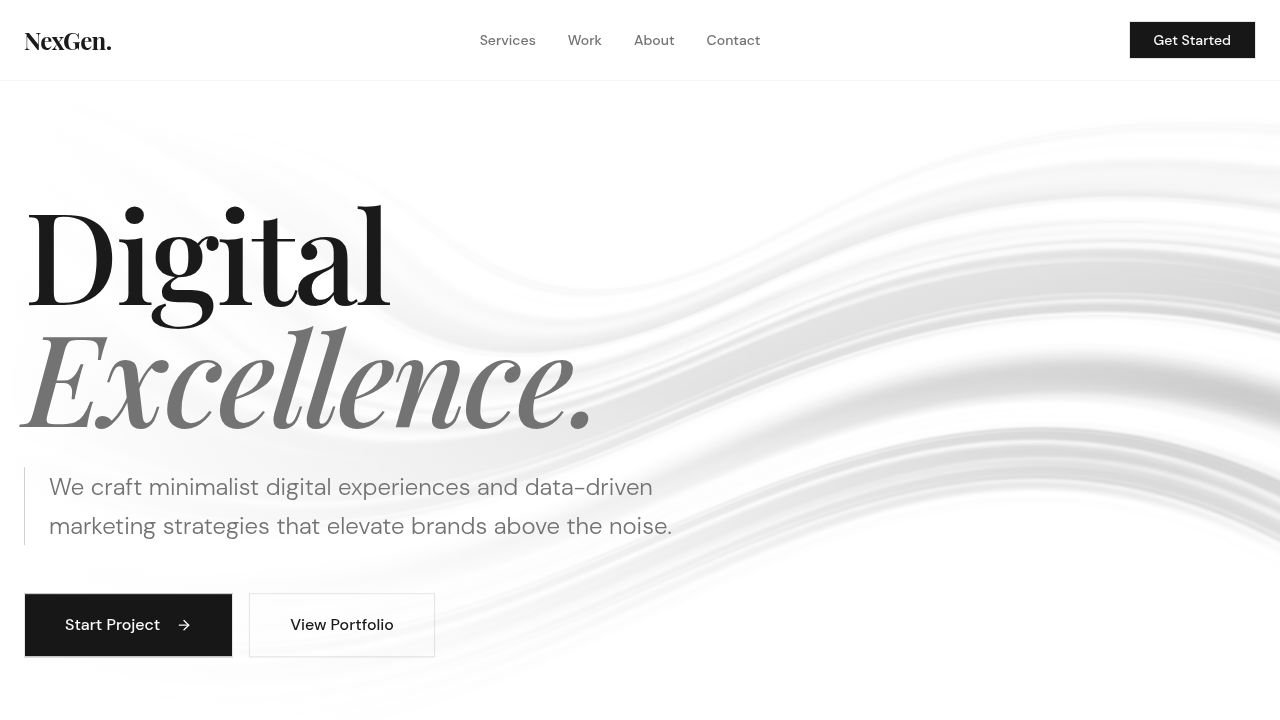
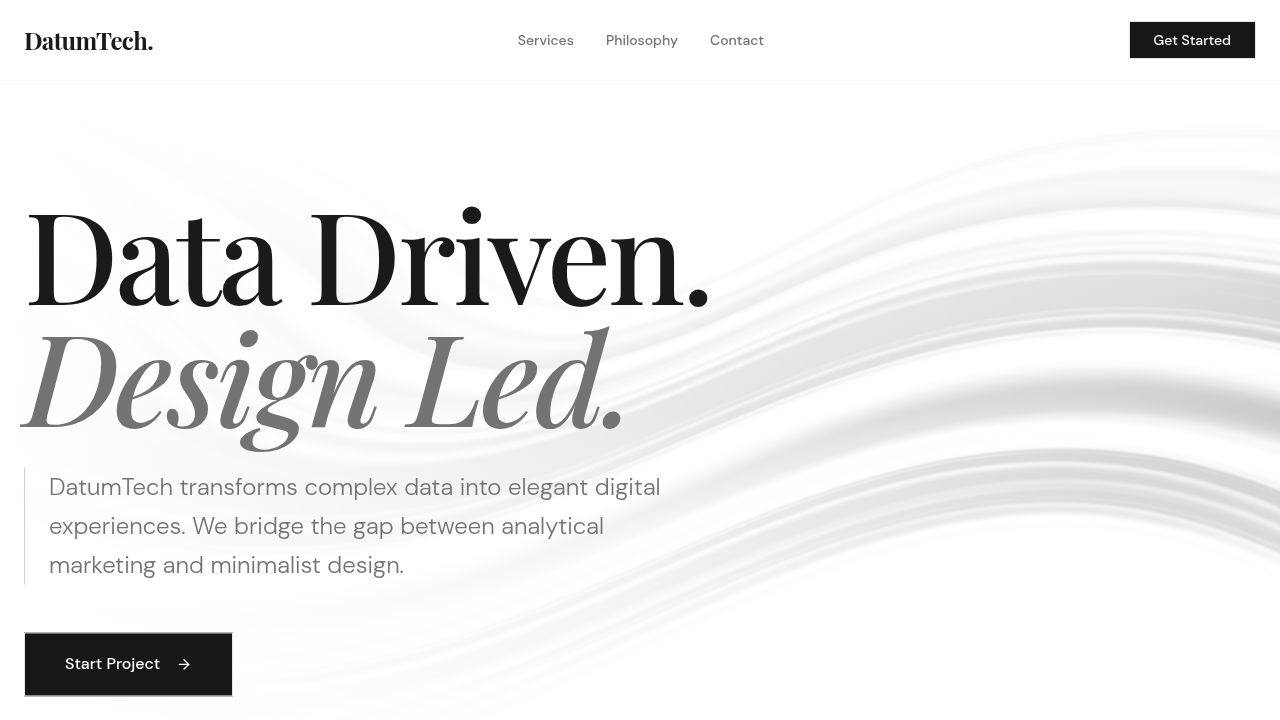
Update website branding and reorganize content for better clarity
Update the site's title, company name to DatumTech, and adjust navigation links. Remove the 'View Portfolio' button and refine the hero section's text and layout.

Replit-Commit-Author: Agent
Replit-Commit-Session-Id: 47a8e106-f118-4bb9-bd44-e1fb03fa4657
Replit-Commit-Checkpoint-Type: full_checkpoint
Replit-Commit-Event-Id: 930be7c3-c717-4c05-a084-e1411d183a05
Replit-Commit-Screenshot-Url: https://storage.googleapis.com/screenshot-production-us-central1/a9d355a1-3046-4cba-b1a1-2083b4b99bc4/47a8e106-f118-4bb9-bd44-e1fb03fa4657/5yPKr4i
Replit-Helium-Checkpoint-Created: true

diff --git a/client/src/pages/home.tsx b/client/src/pages/home.tsx
@@ -14,13 +14,12 @@ export default function Home() {
   return (
     <div className="min-h-screen bg-background text-foreground selection:bg-primary selection:text-primary-foreground">
       {/* Navigation */}
-      <nav className="fixed top-0 w-full z-50 bg-background/80 backdrop-blur-md border-b border-border/40 transition-all duration-300">
+      <nav className="fixed top-0 w-full z-50 bg-background/90 backdrop-blur-md border-b border-border/40 transition-all duration-300">
         <div className="container mx-auto px-6 h-20 flex items-center justify-between">
-          <div className="text-2xl font-serif font-bold tracking-tight">NexGen.</div>
+          <div className="text-2xl font-serif font-bold tracking-tight">DatumTech.</div>
           <div className="hidden md:flex items-center gap-8 text-sm font-medium text-muted-foreground">
             <a href="#services" className="hover:text-primary transition-colors">Services</a>
-            <a href="#work" className="hover:text-primary transition-colors">Work</a>
-            <a href="#about" className="hover:text-primary transition-colors">About</a>
+            <a href="#about" className="hover:text-primary transition-colors">Philosophy</a>
             <a href="#contact" className="hover:text-primary transition-colors">Contact</a>
           </div>
           <Button variant="default" className="rounded-none px-6 shadow-none hover:opacity-90 transition-opacity">Get Started</Button>
@@ -28,7 +27,7 @@ export default function Home() {
       </nav>
 
       {/* Hero Section */}
-      <section className="relative pt-32 pb-20 md:pt-48 md:pb-32 overflow-hidden min-h-[90vh] flex items-center">
+      <section className="relative pt-32 pb-20 md:pt-48 md:pb-32 overflow-hidden min-h-[85vh] flex items-center">
         {/* Background Image with Overlay */}
         <div className="absolute inset-0 z-0">
           <img 
@@ -37,7 +36,7 @@ export default function Home() {
             className="w-full h-full object-cover opacity-20 dark:opacity-10 grayscale contrast-125"
           />
           <div className="absolute inset-0 bg-gradient-to-b from-background via-transparent to-background" />
-          <div className="absolute inset-0 bg-gradient-to-r from-background via-background/50 to-transparent" />
+          <div className="absolute inset-0 bg-gradient-to-r from-background via-background/60 to-transparent" />
         </div>
 
         <div className="container mx-auto px-6 relative z-10">
@@ -48,53 +47,47 @@ export default function Home() {
             className="max-w-4xl"
           >
             <h1 className="text-6xl md:text-8xl lg:text-9xl font-serif font-medium leading-[0.95] tracking-tight mb-8">
-              Digital <br/>
-              <span className="text-muted-foreground italic">Excellence.</span>
+              Data Driven. <br/>
+              <span className="text-muted-foreground italic">Design Led.</span>
             </h1>
             <p className="text-xl md:text-2xl text-muted-foreground max-w-2xl mb-12 leading-relaxed font-light border-l border-primary/20 pl-6">
-              We craft minimalist digital experiences and data-driven marketing strategies that elevate brands above the noise. 
+              DatumTech transforms complex data into elegant digital experiences. We bridge the gap between analytical marketing and minimalist design.
             </p>
             <div className="flex flex-col sm:flex-row gap-4">
               <Button size="lg" className="rounded-none text-base px-10 h-16 bg-primary text-primary-foreground hover:bg-primary/90 transition-all duration-300 group">
                 Start Project <ArrowRight className="ml-2 h-4 w-4 transition-transform group-hover:translate-x-1" />
-              </Button>
-              <Button variant="outline" size="lg" className="rounded-none text-base px-10 h-16 border-primary/10 hover:bg-secondary/50 backdrop-blur-sm">
-                View Portfolio
               </Button>
             </div>
           </motion.div>
         </div>
       </section>
 
-      {/* Services Section */}
+      {/* Services Section - More Organized Layout */}
       <section id="services" className="py-32 bg-secondary/20">
         <div className="container mx-auto px-6">
           <div className="flex flex-col md:flex-row justify-between items-end mb-20 gap-6 border-b border-border pb-8">
             <div className="max-w-xl">
               <span className="text-sm font-medium tracking-widest uppercase text-muted-foreground mb-4 block">Our Expertise</span>
-              <h2 className="text-4xl md:text-5xl font-serif">Comprehensive digital solutions.</h2>
+              <h2 className="text-4xl md:text-5xl font-serif">Structured for success.</h2>
             </div>
-            <Button variant="link" className="text-lg p-0 h-auto gap-2 group text-primary font-serif italic">
-              See all services <ChevronRight className="w-4 h-4 transition-transform group-hover:translate-x-1" />
-            </Button>
           </div>
 
-          <div className="grid md:grid-cols-3 gap-px bg-border/30 border border-border/30">
+          <div className="grid md:grid-cols-3 gap-8">
             {[
+              {
+                icon: <BarChart3 className="w-6 h-6" />,
+                title: "Analytics & Strategy",
+                items: ["Data Analysis", "Market Research", "Growth Strategy", "Conversion Optimization"]
+              },
               {
                 icon: <Globe className="w-6 h-6" />,
                 title: "Web Development",
-                desc: "Bespoke websites built with modern technologies. Fast, responsive, and designed to convert."
-              },
-              {
-                icon: <BarChart3 className="w-6 h-6" />,
-                title: "Digital Marketing",
-                desc: "Data-driven SEO, PPC, and social strategies that target your audience with precision."
+                items: ["Custom Development", "React Applications", "Performance Tuning", "SEO Technicals"]
               },
               {
                 icon: <PenTool className="w-6 h-6" />,
-                title: "Brand Strategy",
-                desc: "Defining your voice and visual identity to create a lasting connection with your customers."
+                title: "Brand Identity",
+                items: ["Visual Design", "UI/UX Design", "Brand Guidelines", "Content Strategy"]
               }
             ].map((service, i) => (
               <motion.div 
@@ -103,82 +96,80 @@ export default function Home() {
                 whileInView={{ opacity: 1, y: 0 }}
                 viewport={{ once: true }}
                 transition={{ delay: i * 0.1 }}
-                className="group p-12 bg-background hover:bg-secondary/30 transition-colors duration-500"
+                className="group border-t border-border pt-8 hover:border-primary transition-colors duration-500"
               >
-                <div className="mb-8 p-3 bg-secondary w-fit text-primary rounded-none">{service.icon}</div>
-                <h3 className="text-2xl font-serif mb-4 group-hover:underline decoration-1 underline-offset-4">{service.title}</h3>
-                <p className="text-muted-foreground leading-relaxed font-light">{service.desc}</p>
+                <div className="mb-6 text-primary opacity-80">{service.icon}</div>
+                <h3 className="text-2xl font-serif mb-6">{service.title}</h3>
+                <ul className="space-y-3">
+                  {service.items.map((item, j) => (
+                    <li key={j} className="text-muted-foreground font-light flex items-center gap-2 text-sm">
+                      <span className="w-1 h-1 bg-primary/40 rounded-full" /> {item}
+                    </li>
+                  ))}
+                </ul>
               </motion.div>
             ))}
           </div>
         </div>
       </section>
 
-      {/* About / Philosophy Section */}
+      {/* About / Philosophy Section - Cleaner Layout */}
       <section id="about" className="py-32">
         <div className="container mx-auto px-6">
-          <div className="grid lg:grid-cols-2 gap-20 items-center">
-            <div className="relative aspect-[4/5] bg-secondary overflow-hidden group">
+          <div className="grid lg:grid-cols-12 gap-12 lg:gap-20 items-center">
+            <div className="lg:col-span-5 relative aspect-[3/4] bg-secondary overflow-hidden group">
                <img 
                 src={aboutImg} 
                 alt="Minimalist Office" 
-                className="object-cover w-full h-full grayscale hover:grayscale-0 transition-all duration-700 ease-out scale-100 group-hover:scale-105" 
+                className="object-cover w-full h-full grayscale hover:grayscale-0 transition-all duration-700 ease-out" 
                />
-               <div className="absolute inset-0 ring-1 ring-inset ring-black/5 dark:ring-white/10" />
             </div>
-            <div>
-              <span className="text-sm font-medium tracking-widest uppercase text-muted-foreground mb-4 block">Our Philosophy</span>
-              <h2 className="text-5xl md:text-6xl font-serif mb-8 leading-tight">Less noise.<br/>More impact.</h2>
-              <div className="space-y-8 text-xl text-muted-foreground font-light leading-relaxed">
+            <div className="lg:col-span-7">
+              <span className="text-sm font-medium tracking-widest uppercase text-muted-foreground mb-4 block">The DatumTech Way</span>
+              <h2 className="text-5xl md:text-6xl font-serif mb-8 leading-tight">Clarity in <br/>complexity.</h2>
+              <div className="space-y-8 text-xl text-muted-foreground font-light leading-relaxed max-w-2xl">
                 <p>
-                  In a digital landscape cluttered with distractions, we believe in the power of simplicity. We strip away the inessential to reveal the core value of your brand.
+                  We believe that data without design is noise, and design without data is art. DatumTech exists at the intersection, creating tools that work as beautifully as they look.
                 </p>
                 <p>
-                  Our team of designers, developers, and strategists work in unison to create digital products that are not only beautiful but also mathematically effective.
+                  Our process is stripped of the unnecessary. We focus purely on metrics that matter and aesthetics that endure.
                 </p>
               </div>
               
-              <div className="mt-12 grid grid-cols-2 gap-y-6 gap-x-12">
-                {['Strategic Design', 'Data-Driven', 'Minimalist Aesthetic', 'Global Reach'].map((item) => (
-                  <div key={item} className="flex items-center gap-3 border-b border-border pb-2">
-                    <CheckCircle2 className="w-5 h-5 text-primary" />
-                    <span className="font-serif text-lg text-foreground">{item}</span>
-                  </div>
-                ))}
+              <div className="mt-12 grid grid-cols-2 gap-8">
+                 <div className="border-l border-border pl-6">
+                   <h4 className="text-lg font-serif mb-2">Precision</h4>
+                   <p className="text-sm text-muted-foreground">Every pixel and data point has a purpose.</p>
+                 </div>
+                 <div className="border-l border-border pl-6">
+                   <h4 className="text-lg font-serif mb-2">Elegance</h4>
+                   <p className="text-sm text-muted-foreground">Sophistication through simplicity.</p>
+                 </div>
               </div>
             </div>
           </div>
         </div>
       </section>
 
-      {/* Quote/Breaker Section */}
-      <section className="py-24 bg-primary text-primary-foreground text-center">
-        <div className="container mx-auto px-6 max-w-4xl">
-          <blockquote className="text-3xl md:text-5xl font-serif leading-tight italic opacity-90">
-            "Simplicity is the ultimate sophistication."
-          </blockquote>
-          <cite className="block mt-8 text-sm font-sans tracking-widest uppercase opacity-60 not-italic">Leonardo da Vinci</cite>
-        </div>
-      </section>
-
       {/* Contact Section */}
-      <section id="contact" className="py-32 bg-secondary/10">
+      <section id="contact" className="py-32 bg-secondary/10 border-t border-border">
         <div className="container mx-auto px-6">
-          <div className="grid lg:grid-cols-2 gap-20">
-            <div>
-              <h2 className="text-4xl md:text-5xl font-serif mb-6">Let's build something <br/>extraordinary.</h2>
-              <p className="text-muted-foreground text-lg mb-12 max-w-md font-light">
-                Ready to elevate your digital presence? Reach out to us and let's discuss your next project.
-              </p>
-              
-              <div className="space-y-10">
+          <div className="max-w-4xl mx-auto text-center mb-16">
+             <h2 className="text-4xl md:text-5xl font-serif mb-6">Start your transformation.</h2>
+             <p className="text-muted-foreground text-lg font-light">
+                Reach out to discuss how we can elevate your digital presence.
+             </p>
+          </div>
+
+          <div className="grid lg:grid-cols-2 gap-20 max-w-5xl mx-auto">
+            <div className="space-y-12 py-8">
                 <div className="flex items-start gap-6 group">
                   <div className="p-3 bg-primary text-primary-foreground">
                     <Mail className="w-5 h-5" />
                   </div>
                   <div>
-                    <h4 className="text-lg font-serif mb-1 group-hover:underline">Email us</h4>
-                    <p className="text-muted-foreground">hello@nexgen.digital</p>
+                    <h4 className="text-lg font-serif mb-1">Email</h4>
+                    <p className="text-muted-foreground">hello@datumtech.com</p>
                   </div>
                 </div>
                 <div className="flex items-start gap-6 group">
@@ -186,8 +177,8 @@ export default function Home() {
                     <Phone className="w-5 h-5" />
                   </div>
                   <div>
-                    <h4 className="text-lg font-serif mb-1 group-hover:underline">Call us</h4>
-                    <p className="text-muted-foreground">+1 (555) 123-4567</p>
+                    <h4 className="text-lg font-serif mb-1">Phone</h4>
+                    <p className="text-muted-foreground">+1 (555) 000-0000</p>
                   </div>
                 </div>
                 <div className="flex items-start gap-6 group">
@@ -195,34 +186,27 @@ export default function Home() {
                     <MapPin className="w-5 h-5" />
                   </div>
                   <div>
-                    <h4 className="text-lg font-serif mb-1 group-hover:underline">Visit us</h4>
-                    <p className="text-muted-foreground">123 Design District<br/>New York, NY 10012</p>
+                    <h4 className="text-lg font-serif mb-1">Office</h4>
+                    <p className="text-muted-foreground">123 Tech Boulevard<br/>San Francisco, CA 94105</p>
                   </div>
                 </div>
-              </div>
             </div>
 
             <div className="bg-background border border-border p-8 md:p-12 shadow-2xl shadow-black/5">
-              <form className="space-y-8">
-                <div className="grid md:grid-cols-2 gap-8">
-                  <div className="space-y-3">
-                    <label className="text-xs uppercase tracking-widest font-semibold text-muted-foreground">First Name</label>
-                    <Input className="rounded-none border-0 border-b border-border bg-transparent px-0 focus-visible:ring-0 focus-visible:border-primary shadow-none transition-colors" placeholder="John" />
-                  </div>
-                  <div className="space-y-3">
-                    <label className="text-xs uppercase tracking-widest font-semibold text-muted-foreground">Last Name</label>
-                    <Input className="rounded-none border-0 border-b border-border bg-transparent px-0 focus-visible:ring-0 focus-visible:border-primary shadow-none transition-colors" placeholder="Doe" />
-                  </div>
+              <form className="space-y-6">
+                <div className="space-y-2">
+                  <label className="text-xs uppercase tracking-widest font-semibold text-muted-foreground">Name</label>
+                  <Input className="rounded-none border-0 border-b border-border bg-transparent px-0 focus-visible:ring-0 focus-visible:border-primary shadow-none transition-colors" placeholder="Jane Smith" />
                 </div>
-                <div className="space-y-3">
+                <div className="space-y-2">
                   <label className="text-xs uppercase tracking-widest font-semibold text-muted-foreground">Email</label>
-                  <Input type="email" className="rounded-none border-0 border-b border-border bg-transparent px-0 focus-visible:ring-0 focus-visible:border-primary shadow-none transition-colors" placeholder="john@company.com" />
+                  <Input type="email" className="rounded-none border-0 border-b border-border bg-transparent px-0 focus-visible:ring-0 focus-visible:border-primary shadow-none transition-colors" placeholder="jane@company.com" />
                 </div>
-                <div className="space-y-3">
+                <div className="space-y-2">
                   <label className="text-xs uppercase tracking-widest font-semibold text-muted-foreground">Message</label>
-                  <Textarea className="rounded-none border-0 border-b border-border bg-transparent px-0 min-h-[100px] resize-none focus-visible:ring-0 focus-visible:border-primary shadow-none transition-colors" placeholder="Tell us about your project..." />
+                  <Textarea className="rounded-none border-0 border-b border-border bg-transparent px-0 min-h-[80px] resize-none focus-visible:ring-0 focus-visible:border-primary shadow-none transition-colors" placeholder="How can we help?" />
                 </div>
-                <Button className="w-full rounded-none h-14 text-base bg-primary text-primary-foreground hover:bg-primary/90" size="lg">Send Message</Button>
+                <Button className="w-full rounded-none h-12 text-base bg-primary text-primary-foreground hover:bg-primary/90 mt-4" size="lg">Send Message</Button>
               </form>
             </div>
           </div>
@@ -233,12 +217,11 @@ export default function Home() {
       <footer className="py-12 border-t border-border bg-black text-white">
         <div className="container mx-auto px-6">
           <div className="flex flex-col md:flex-row justify-between items-center gap-8">
-            <div className="text-3xl font-serif font-bold tracking-tight">NexGen.</div>
+            <div className="text-2xl font-serif font-bold tracking-tight">DatumTech.</div>
             <div className="text-sm text-neutral-400 font-light">
-              © {new Date().getFullYear()} NexGen Digital. All rights reserved.
+              © {new Date().getFullYear()} DatumTech. All rights reserved.
             </div>
             <div className="flex gap-8">
-              <a href="#" className="text-neutral-400 hover:text-white transition-colors text-sm uppercase tracking-wider">Twitter</a>
               <a href="#" className="text-neutral-400 hover:text-white transition-colors text-sm uppercase tracking-wider">LinkedIn</a>
               <a href="#" className="text-neutral-400 hover:text-white transition-colors text-sm uppercase tracking-wider">Instagram</a>
             </div>

diff --git a/client/index.html b/client/index.html
@@ -4,14 +4,14 @@
     <meta charset="UTF-8" />
     <meta name="viewport" content="width=device-width, initial-scale=1.0, maximum-scale=1" />
 
-    <title>NexGen Digital | Elegant Marketing Solutions</title>
-    <meta property="og:title" content="NexGen Digital | Elegant Marketing Solutions" />
+    <title>DatumTech | Elegant Marketing Solutions</title>
+    <meta property="og:title" content="DatumTech | Elegant Marketing Solutions" />
     <meta property="og:description" content="Premium digital marketing and web services for forward-thinking businesses. Simple, elegant, effective." />
     <meta property="og:type" content="website" />
     <meta property="og:image" content="/og-image.png" />
     <meta name="twitter:card" content="summary_large_image" />
     <meta name="twitter:site" content="@replit" />
-    <meta name="twitter:title" content="NexGen Digital" />
+    <meta name="twitter:title" content="DatumTech" />
     <meta name="twitter:description" content="Premium digital marketing and web services for forward-thinking businesses." />
     <meta name="twitter:image" content="/og-image.png" />
 
